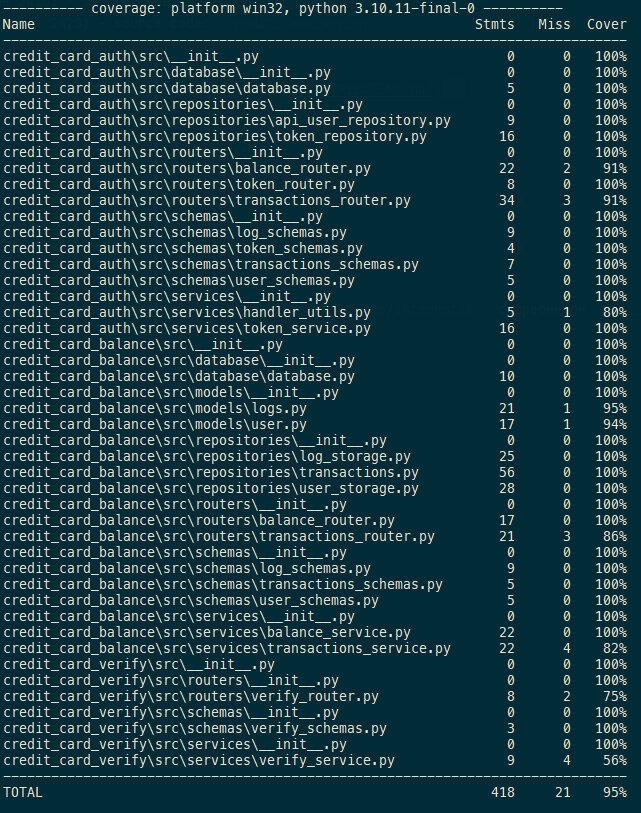
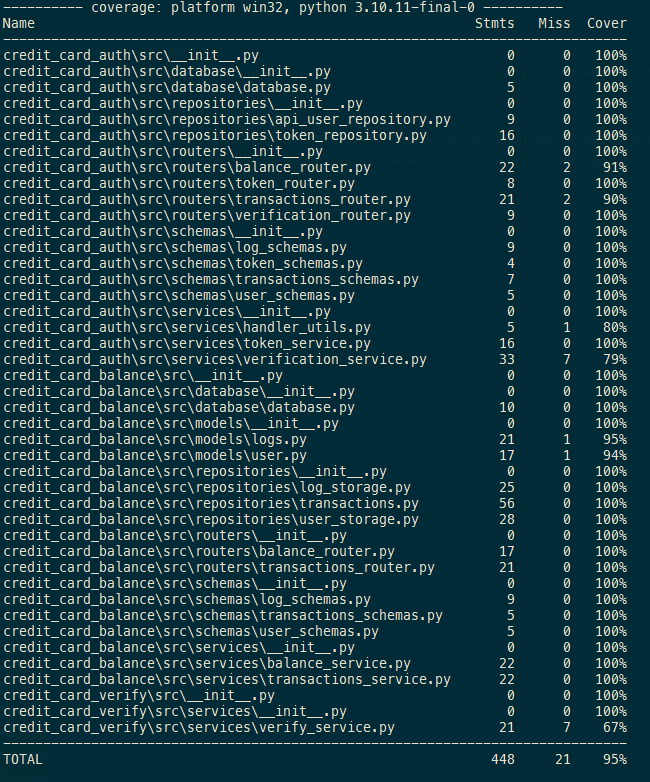
Обновлены текстовые файлы.

diff --git a/README.md b/README.md
@@ -45,7 +45,9 @@ docker run -d --name kafka -e ALLOW_PLAINTEXT_LISTENER=yes -e KAFKA_CFG_ZOOKEEPE
 docker exec -it kafka /opt/bitnami/kafka/bin/kafka-topics.sh --create --topic gran_verify --bootstrap-server host.docker.internal:24301 --partitions 1 --replication-factor 1
 docker exec -it kafka /opt/bitnami/kafka/bin/kafka-topics.sh --create --topic gran_verify_response --bootstrap-server host.docker.internal:24301 --partitions 1 --replication-factor 1
 ```
+Обновлены тесты.
 
+![img_1.png](img_1.png)
 
 ## Week5. SHIFT-559. Сервис авторизации и проксирования запросов
 Сервис разбит на три микросервиса:
@@ -66,8 +68,6 @@ python main_verify.py - для сервиса верификации на 24201
 ```
 
 Весь код покрыт тестами. Тесты эндпоинтов находятся в папке `tests/integration` с префиксом `test_api_`.
-
-![img_1.png](img_1.png)
 
 
 ## Credit card api.

diff --git a/CHANGELOG.md b/CHANGELOG.md
@@ -8,6 +8,7 @@
 - Хранилище фотографий перенесено в [photo_storage](photo_storage)
 - В сервисе credit_card_auth изменен эндпоинт верификации для работы через kafka. Эндпоинт вынесен в отдельный файл [verification_router.py](credit_card_auth%2Fsrc%2Frouters%2Fverification_router.py).
 - Сервис верификации отправляет http запрос в сервис баланса для изменения лимита и сообщение в топик `gran_verify_response` для сервиса авторизации.
+- Обновлены тесты.
 - Минорные исправления.
 
 ## [0.4.0] - 13.09.2023
